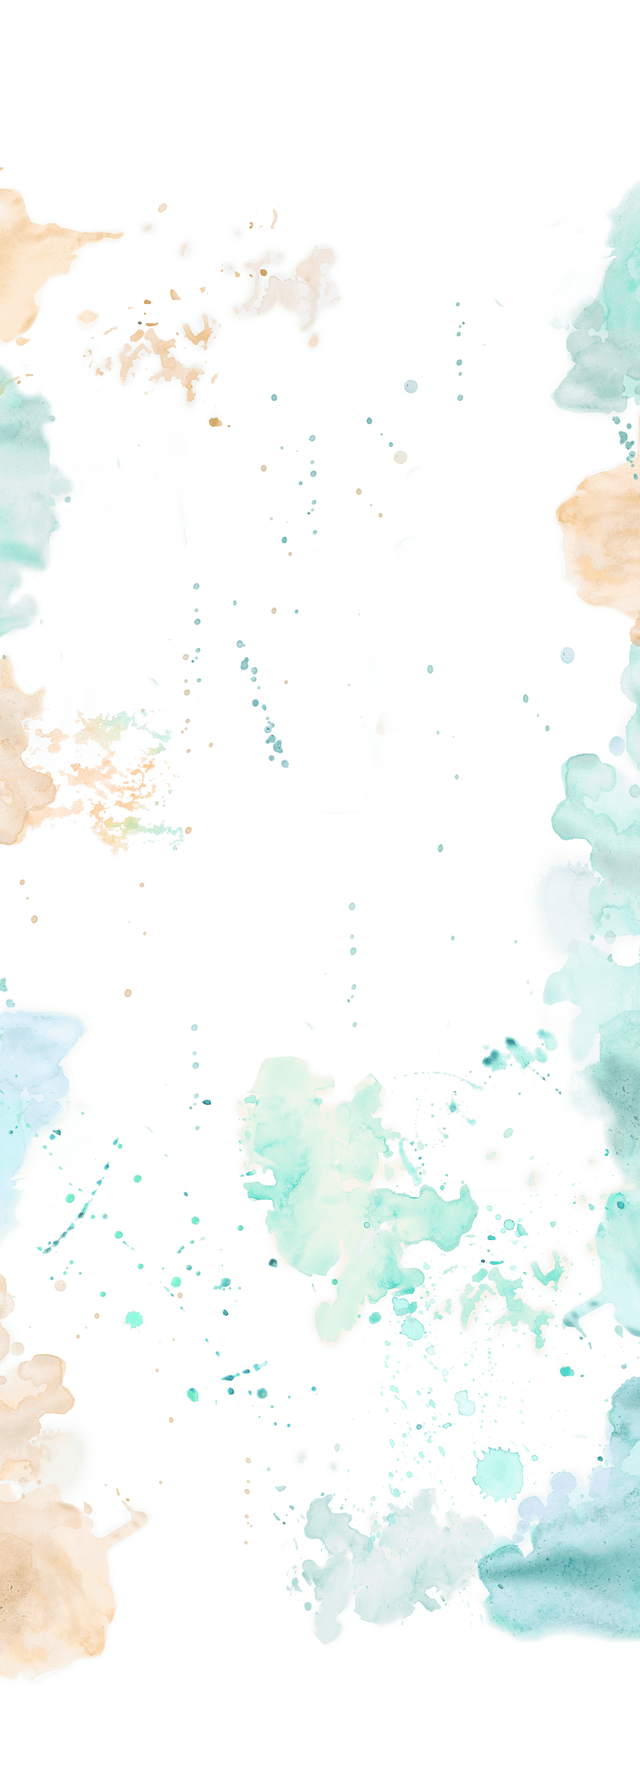
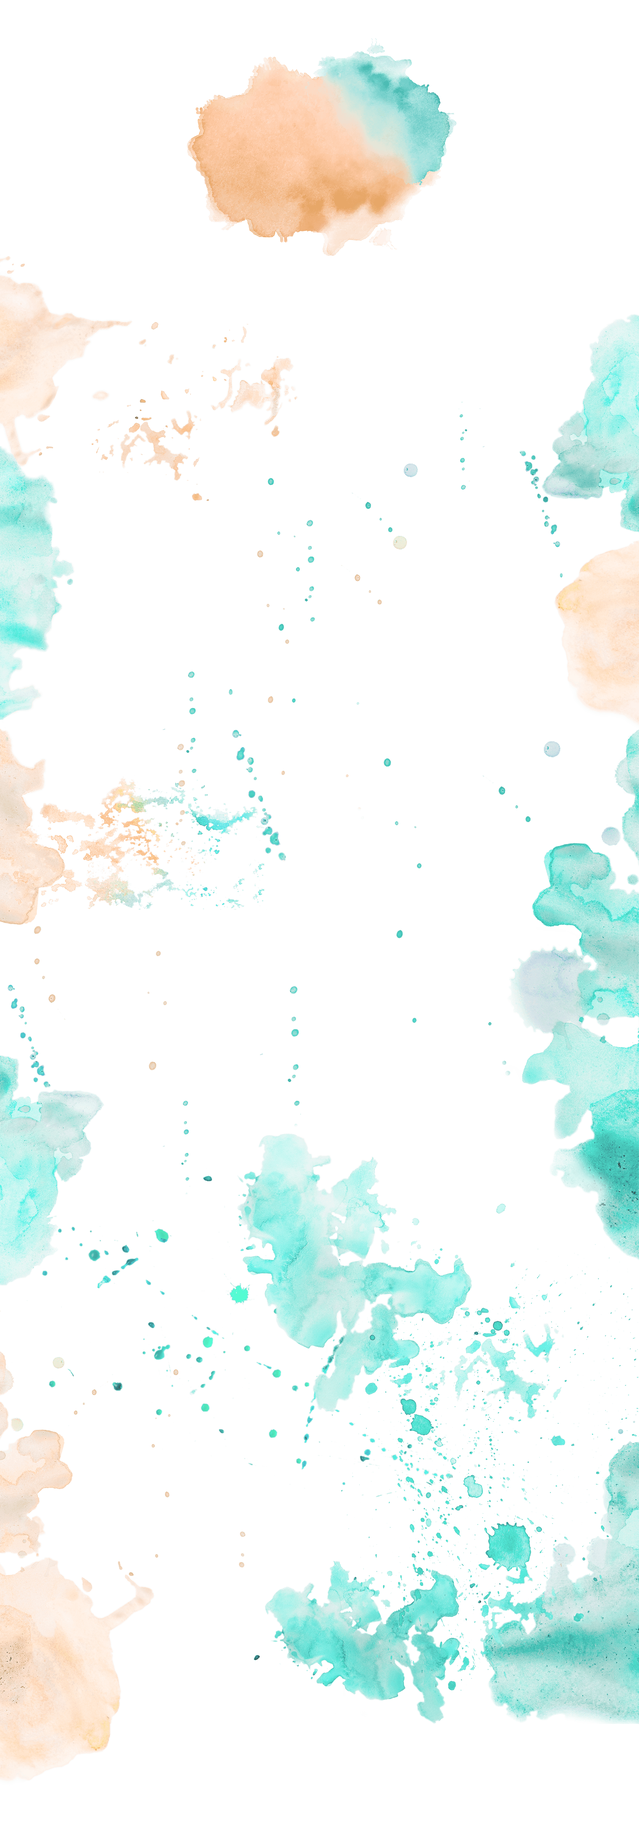
Новый фон на главной

diff --git a/src/css/main.min.css b/src/css/main.min.css
@@ -1,1 +1,1 @@
-@font-face{font-family:Fira Sans;font-style:normal;font-weight:400;src:url(../fonts/fira-sans-v10-latin_cyrillic-regular.eot);src:local("Fira Sans Regular"),local("FiraSans-Regular"),url(../fonts/fira-sans-v10-latin_cyrillic-regular.eot?#iefix) format("embedded-opentype"),url(../fonts/fira-sans-v10-latin_cyrillic-regular.woff2) format("woff2"),url(../fonts/fira-sans-v10-latin_cyrillic-regular.woff) format("woff"),url(../fonts/fira-sans-v10-latin_cyrillic-regular.ttf) format("truetype"),url(../fonts/fira-sans-v10-latin_cyrillic-regular.svg#FiraSans) format("svg")}@font-face{font-family:Rozoviy Chulok;font-style:normal;font-weight:400;src:url(../fonts/rozoviy-chulok-regular.eot);src:local("Rozoviy Chulok Regular"),local("RozoviyChulok-Regular"),url(../fonts/rozoviy-chulok-regular.eot?#iefix) format("embedded-opentype"),url(../fonts/rozoviy-chulok-regular.woff2) format("woff2"),url(../fonts/rozoviy-chulok-regular.woff) format("woff"),url(../fonts/rozoviy-chulok-regular.ttf) format("truetype"),url(../fonts/rozoviy-chulok-regular.svg#FiraSans) format("svg")}#top_menu{position:sticky;z-index:5;top:0;margin:0;padding:0;width:100%}@media screen and (max-width:764px){#top_menu{position:fixed;background:rgba(85,126,131,.75)}#top_menu a{color:#fff}}#top_menu li{text-transform:uppercase;color:#4d5e58;margin:0;position:relative}#top_menu li:before{position:absolute;content:"";height:1px;width:0;background:#65746e;transition:width .3s ease-in-out;left:0;bottom:0}#top_menu li:hover:before{width:calc(100% - 60px);left:30px}.navbar-handle{line-height:40px;width:40px;height:40px;margin:3px;padding:20px 0;position:fixed;z-index:3;display:inline-block;cursor:pointer;right:15px}@media screen and (min-width:764px){.navbar-handle{display:none}}.menu ul{display:none;width:100%}@media screen and (min-width:764px){.menu ul{display:block;overflow:auto;text-align:center;margin:0}}.menu>input[type=checkbox]{display:none}.menu>input[type=checkbox]:checked+ul{display:block;margin:0}.menu li{list-style:none;text-align:center;padding:10px 0}@media screen and (min-width:764px){.menu li{display:inline-block}}.menu a{display:block;text-decoration:none;padding:5px 30px}.fix-menu{background:rgba(85,126,131,.75)}.fix-menu a{color:#fff}@media screen and (max-width:764px){.fix-menu a{color:#4d5e58}}.fix-menu li:hover{background:#557e83}.fix-menu li:hover a{color:#fff}.button_block{text-align:center;margin:120px 0}.button_block button{position:relative;z-index:2;background:#557e83;color:#fff;border:0;box-shadow:none;padding:10px 15px;border-radius:50px;text-transform:uppercase;width:220px;cursor:pointer;transition:.5s}.button_block button:hover{background:#f3c5a3;color:#65746e;transition:.5s}.button_block:before{position:absolute;z-index:0;left:0;content:"";height:1px;width:100%;background-image:linear-gradient(90deg,#557e83,#557e83 50%,transparent 0,transparent);background-size:5px 1px;margin-top:22px}.button_block:after{position:absolute;z-index:0;content:"";display:inline-block;width:180px;height:180px;border-radius:90px;border:1px dashed #557e83;margin-top:-75px;margin-left:-200px;animation:a 24s infinite linear}#events_section{margin:5em 0}#events_section article{margin:7em 0}#events_section article:nth-child(2n){flex-direction:row-reverse;display:flex;flex-wrap:wrap}#events_section article:first-child .events_info{position:relative;text-align:left;padding:1em 2em 1em 6em}@media screen and (max-width:764px){#events_section article:first-child .events_info{padding:0}}#events_section article:first-child .events_info .events_imgs_block{position:absolute;top:0;width:100%}#events_section article:first-child .events_info .events_imgs_block .events_imgs:nth-child(1){position:absolute;right:4em;top:7em}#events_section article:first-child .events_info .events_imgs_block .events_imgs:nth-child(2){position:absolute;right:11em;top:18em}#events_section article:first-child .events_info .events_imgs_block .events_imgs:nth-child(3){position:absolute;right:22em;top:20em}#events_section article:first-child .events_img{padding:1em 6em 1em 2em}#events_section article:first-child .events_img span{margin-left:auto;margin-right:0}@media screen and (max-width:764px){#events_section article:first-child .events_img span{margin-top:-220px;background:#f2eee2}}@media screen and (max-width:764px){#events_section article:first-child .events_img{padding:0}}#events_section article:nth-child(2) .events_info{position:relative;text-align:right;padding:1em 6em 1em 2em}@media screen and (max-width:764px){#events_section article:nth-child(2) .events_info{padding:0}}#events_section article:nth-child(2) .events_info h3{margin-left:auto}#events_section article:nth-child(2) .events_info .events_imgs_block{position:absolute;top:0;width:100%}#events_section article:nth-child(2) .events_info .events_imgs_block .events_imgs:first-child{position:absolute;left:0;top:5em}#events_section article:nth-child(2) .events_info .events_imgs_block .events_imgs:nth-child(2){position:absolute;left:5em;top:17em}#events_section article:nth-child(2) .events_info .events_imgs_block .events_imgs:nth-child(3){position:absolute;left:15em;top:20em}#events_section article:nth-child(2) .events_img{padding:1em 2em 1em 6em}#events_section article:nth-child(2) .events_img span{background:#a1dbd3;color:#557e83;margin-right:auto;margin-left:0}@media screen and (max-width:764px){#events_section article:nth-child(2) .events_img span{margin-top:-220px;background:#f2eee2}}@media screen and (max-width:764px){#events_section article:nth-child(2) .events_img{padding:0}}#events_section article:nth-child(3) .events_info{position:relative;text-align:left;padding:1em 2em 1em 6em}@media screen and (max-width:764px){#events_section article:nth-child(3) .events_info{padding:0}}#events_section article:nth-child(3) .events_info .events_imgs_block{position:absolute;top:0;width:100%}#events_section article:nth-child(3) .events_info .events_imgs_block .events_imgs:first-child{position:absolute;right:4em;top:5em}#events_section article:nth-child(3) .events_info .events_imgs_block .events_imgs:nth-child(2){position:absolute;right:12em;top:20em}#events_section article:nth-child(3) .events_info .events_imgs_block .events_imgs:nth-child(3){position:absolute;right:24em;top:20em}#events_section article:nth-child(3) .events_img{padding:1em 6em 1em 2em}#events_section article:nth-child(3) .events_img span{margin-left:auto;margin-right:0}@media screen and (max-width:764px){#events_section article:nth-child(3) .events_img span{margin-top:-220px;background:#f2eee2}}@media screen and (max-width:764px){#events_section article:nth-child(3) .events_img{padding:0}}#events_section article:nth-child(4) .events_info{position:relative;text-align:right;padding:1em 6em 1em 2em}@media screen and (max-width:764px){#events_section article:nth-child(4) .events_info{padding:0}}#events_section article:nth-child(4) .events_info h3{margin-left:auto}#events_section article:nth-child(4) .events_info .events_imgs_block{position:absolute;top:0;width:100%}#events_section article:nth-child(4) .events_info .events_imgs_block .events_imgs:first-child{position:absolute;left:0;top:5em}#events_section article:nth-child(4) .events_info .events_imgs_block .events_imgs:nth-child(2){position:absolute;left:6em;top:18em}#events_section article:nth-child(4) .events_info .events_imgs_block .events_imgs:nth-child(3){position:absolute;left:18em;top:18em}#events_section article:nth-child(4) .events_img{padding:1em 2em 1em 6em}#events_section article:nth-child(4) .events_img span{background:#a1dbd3;color:#557e83;margin-right:auto;margin-left:0}@media screen and (max-width:764px){#events_section article:nth-child(4) .events_img span{margin-top:-220px;background:#f2eee2}}@media screen and (max-width:764px){#events_section article:nth-child(4) .events_img{padding:0}}#events_section h3{font-family:Rozoviy Chulok;width:240px;color:#95493c;font-size:4em;line-height:1em;font-weight:400;margin-bottom:10px}#events_section .events_info .events_imgs img{border:1px dashed #557e83;border-radius:100%;margin:15px;padding:15px}@media screen and (max-width:1140px){#events_section .events_info .events_imgs{display:none}}#events_section .events_info a{display:block;text-decoration:none;text-transform:uppercase;margin:15px 0;font-size:14px}#events_section .events_info .events_city{display:block;text-transform:uppercase;font-size:2em;margin:10px 0}#events_section .events_info .events_date{font-size:1.4em}#events_section .events_img div{position:relative;width:440px;max-width:100%;height:440px}#events_section .events_img div:after{position:absolute;z-index:0;content:"";display:inline-block;width:100%;height:0;padding-top:100%;border-radius:100%;border:1px dashed #65746e;margin-top:-100%;animation:a 32s infinite linear}@keyframes a{to{transform:rotate(1turn)}}#events_section .events_img div img{position:relative;z-index:1;margin:18px;max-width:calc(100% - 36px);transition:transform .5s}#events_section .events_img div img:hover{transform:scale(1.05)}#events_section .events_img span{position:relative;z-index:3;margin-top:-160px;background:#f3c5a3;color:#65746e;box-shadow:0 5px 18px rgba(0,0,0,.25);width:120px;height:120px;border-radius:120px;display:flex;align-items:center;justify-content:center;text-align:center;padding:20px;line-height:1.2em;font-size:14px;text-transform:uppercase}#video_section{position:relative}#video_section .last_video{position:relative;z-index:1}#video_section .last_video:after{position:absolute;content:"";top:0;left:0;z-index:2;display:block;width:100%;height:100%;background:rgba(71,81,99,.72)}#video_section .video_file{width:100%}#video_section .play_video_button{position:absolute;z-index:3;top:35%;width:90px;max-width:25%;left:calc(50% - 45px);transition:transform .5s;cursor:pointer}#video_section .play_video_button:hover{transform:scale(1.2)}@media screen and (max-width:764px){#video_section .play_video_button{top:25%;width:40px;left:calc(50% - 20px)}}#video_section h3{position:absolute;z-index:3;top:60%;text-align:center;width:100%;color:#fff;text-transform:uppercase;font-size:2.6em}@media screen and (max-width:764px){#video_section h3{font-size:1.2em}}html{background:#f8f3e7;background-image:url(/img/fon0.png);background-size:100%;background-position:0 0}body{font-family:Fira Sans;font-size:16px;background-image:url(/img/line-fon.svg),url(/img/fon1.png);background-size:cover,auto;background-attachment:fixed;overflow-x:hidden}a,body{color:#65746e}blockquote{font-family:Rozoviy Chulok}.top_header{padding-top:15px}#top_block{text-align:center;text-transform:uppercase;color:#4d5e58;background:url(/img/fonbl1.png);background-size:70%;background-repeat:no-repeat;background-position:50%;min-height:600px;padding:1% 2%}@media screen and (max-width:764px){#top_block{background-size:cover;min-height:280px}}.social_top a{display:inline-block;padding:5px}.social_top a svg{width:30px;height:30px}#facebook-dark .vector,#instagram-dark .vector,#vkontakte-dark .vector,#youtube-dark .vector{fill:#fff}#facebook-dark .path,#instagram-dark .path,#vkontakte-dark .path,#youtube-dark .path{fill:#65746e}#facebook-dark .path:hover,#instagram-dark .path:hover,#vkontakte-dark .path:hover,#youtube-dark .path:hover{fill:#f3c5a3}.like_top{text-align:right;padding:5px;text-transform:uppercase}@media screen and (max-width:764px){.like_top{display:none}}.logo_top{width:90%;max-width:420px;display:inline-block}#top_block h3{font-size:20px;font-weight:400;margin:0}#top_block h1{font-size:64px;margin:5px 0}#library_section h3{font-family:Rozoviy Chulok;color:#95493c;font-size:4em;font-weight:400}#library_section p{display:block;max-width:800px}@media screen and (max-width:1140px){#library_section{text-align:center}}#library_section form{text-align:center}#library_section form input{width:50%;min-width:280px;padding:25px 30px;color:#65746e}#library_section form .left_input{border-radius:100px 0 0 100px;border-style:solid;border-color:#ccc;border-width:2px 0 2px 2px}@media screen and (max-width:764px){#library_section form .left_input{border-radius:100px;border-width:2px}}#library_section form .right_input{border-radius:0 100px 100px 0;border-style:solid;border-color:#ccc;border-width:2px 2px 2px 0}@media screen and (max-width:764px){#library_section form .right_input{border-radius:100px;border-width:2px}}#library_section form .politics_input_block{text-align:right;margin:0 auto;padding:0 5px}#library_section form .politics_input_block input[type=checkbox]{width:auto;min-width:auto;margin-right:7px;margin-bottom:3px;vertical-align:middle}#library_section form .politics_input_block span{vertical-align:middle}footer{background:url(/img/footer-fon.png);background-size:cover;background-repeat:no-repeat;background-position:50%;color:#fff;padding:40px 15px 60px}footer .container .column{display:flex;justify-content:space-between;flex-direction:column;min-height:300px}footer .container .column-r{align-items:end}@media screen and (max-width:764px){footer .container .column-r{align-items:center;min-height:auto;margin-top:20px}}@media screen and (max-width:764px){footer{text-align:center}}footer a{display:inline-block;color:#fff;transition:.5s}footer a:hover{color:#f3c5a3;transition:.5s}footer blockquote{font-size:2.6em;line-height:1.2em;margin:0}@media screen and (max-width:1140px){footer blockquote{font-size:32px}}.footer_link a{display:block}.footer_logo{text-align:right}@media screen and (max-width:764px){.footer_logo{text-align:center}}.footer_logo img{margin-left:auto}@media screen and (max-width:764px){.footer_logo img{display:none}}.footer_info{text-align:right}@media screen and (max-width:764px){.footer_info{text-align:center}}.footer_info p{margin:0}.social_footer{margin:20px 0}.social_footer a{display:inline-block;padding:5px;vertical-align:middle}.social_footer a svg{width:30px;height:30px}.social_footer span{display:inline-block;vertical-align:middle;height:30px;padding-right:30px}@media screen and (max-width:1140px){.social_footer span{display:block;padding:0}}#facebook-light .vector,#instagram-light .vector,#vkontakte-light .vector,#youtube-light .vector{fill:#00455d}#facebook-light .path,#instagram-light .path,#vkontakte-light .path,#youtube-light .path{fill:#fff}#facebook-light .path:hover,#instagram-light .path:hover,#vkontakte-light .path:hover,#youtube-light .path:hover{fill:#f3c5a3}#donate{position:fixed;z-index:4;transform:rotate(270deg);right:0;top:30%;margin-right:-80px;font-size:18px;background:#557e83;color:#fff;padding:15px 25px 35px;text-transform:uppercase;text-decoration:none;transition:.5s}#donate:hover{background:#f3c5a3;color:#65746e;margin-right:-70px;transition:.5s}
+@font-face{font-family:Fira Sans;font-style:normal;font-weight:400;src:url(../fonts/fira-sans-v10-latin_cyrillic-regular.eot);src:local("Fira Sans Regular"),local("FiraSans-Regular"),url(../fonts/fira-sans-v10-latin_cyrillic-regular.eot?#iefix) format("embedded-opentype"),url(../fonts/fira-sans-v10-latin_cyrillic-regular.woff2) format("woff2"),url(../fonts/fira-sans-v10-latin_cyrillic-regular.woff) format("woff"),url(../fonts/fira-sans-v10-latin_cyrillic-regular.ttf) format("truetype"),url(../fonts/fira-sans-v10-latin_cyrillic-regular.svg#FiraSans) format("svg")}@font-face{font-family:Rozoviy Chulok;font-style:normal;font-weight:400;src:url(../fonts/rozoviy-chulok-regular.eot);src:local("Rozoviy Chulok Regular"),local("RozoviyChulok-Regular"),url(../fonts/rozoviy-chulok-regular.eot?#iefix) format("embedded-opentype"),url(../fonts/rozoviy-chulok-regular.woff2) format("woff2"),url(../fonts/rozoviy-chulok-regular.woff) format("woff"),url(../fonts/rozoviy-chulok-regular.ttf) format("truetype"),url(../fonts/rozoviy-chulok-regular.svg#FiraSans) format("svg")}#top_menu{position:sticky;z-index:5;top:0;margin:0;padding:0;width:100%}@media screen and (max-width:764px){#top_menu{position:fixed;background:rgba(85,126,131,.75)}#top_menu a{color:#fff}}#top_menu li{text-transform:uppercase;color:#4d5e58;margin:0;position:relative}#top_menu li:before{position:absolute;content:"";height:1px;width:0;background:#65746e;transition:width .3s ease-in-out;left:0;bottom:0}#top_menu li:hover:before{width:calc(100% - 60px);left:30px}.navbar-handle{line-height:40px;width:40px;height:40px;margin:3px;padding:20px 0;position:fixed;z-index:3;display:inline-block;cursor:pointer;right:15px}@media screen and (min-width:764px){.navbar-handle{display:none}}.menu ul{display:none;width:100%}@media screen and (min-width:764px){.menu ul{display:block;overflow:auto;text-align:center;margin:0}}.menu>input[type=checkbox]{display:none}.menu>input[type=checkbox]:checked+ul{display:block;margin:0}.menu li{list-style:none;text-align:center;padding:10px 0}@media screen and (min-width:764px){.menu li{display:inline-block}}.menu a{display:block;text-decoration:none;padding:5px 30px}.fix-menu{background:rgba(85,126,131,.75)}.fix-menu a{color:#fff}@media screen and (max-width:764px){.fix-menu a{color:#4d5e58}}.fix-menu li:hover{background:#557e83}.fix-menu li:hover a{color:#fff}.button_block{text-align:center;margin:120px 0}.button_block button{position:relative;z-index:2;background:#557e83;color:#fff;border:0;box-shadow:none;padding:10px 15px;border-radius:50px;text-transform:uppercase;width:220px;cursor:pointer;transition:.5s}.button_block button:hover{background:#f3c5a3;color:#65746e;transition:.5s}.button_block:before{position:absolute;z-index:0;left:0;content:"";height:1px;width:100%;background-image:linear-gradient(90deg,#557e83,#557e83 50%,transparent 0,transparent);background-size:5px 1px;margin-top:22px}.button_block:after{position:absolute;z-index:0;content:"";display:inline-block;width:180px;height:180px;border-radius:90px;border:1px dashed #557e83;margin-top:-75px;margin-left:-200px;animation:a 24s infinite linear}#events_section{margin:5em 0}#events_section article{margin:7em 0}#events_section article:nth-child(2n){flex-direction:row-reverse;display:flex;flex-wrap:wrap}#events_section article:first-child .events_info{position:relative;text-align:left;padding:1em 2em 1em 6em}@media screen and (max-width:764px){#events_section article:first-child .events_info{padding:0}}#events_section article:first-child .events_info .events_imgs_block{position:absolute;top:0;width:100%}#events_section article:first-child .events_info .events_imgs_block .events_imgs:nth-child(1){position:absolute;right:4em;top:7em}#events_section article:first-child .events_info .events_imgs_block .events_imgs:nth-child(2){position:absolute;right:11em;top:18em}#events_section article:first-child .events_info .events_imgs_block .events_imgs:nth-child(3){position:absolute;right:22em;top:20em}#events_section article:first-child .events_img{padding:1em 6em 1em 2em}#events_section article:first-child .events_img span{margin-left:auto;margin-right:0}@media screen and (max-width:764px){#events_section article:first-child .events_img span{margin-top:-220px;background:#f2eee2}}@media screen and (max-width:764px){#events_section article:first-child .events_img{padding:0}}#events_section article:nth-child(2) .events_info{position:relative;text-align:right;padding:1em 6em 1em 2em}@media screen and (max-width:764px){#events_section article:nth-child(2) .events_info{padding:0}}#events_section article:nth-child(2) .events_info h3{margin-left:auto}#events_section article:nth-child(2) .events_info .events_imgs_block{position:absolute;top:0;width:100%}#events_section article:nth-child(2) .events_info .events_imgs_block .events_imgs:first-child{position:absolute;left:0;top:5em}#events_section article:nth-child(2) .events_info .events_imgs_block .events_imgs:nth-child(2){position:absolute;left:5em;top:17em}#events_section article:nth-child(2) .events_info .events_imgs_block .events_imgs:nth-child(3){position:absolute;left:15em;top:20em}#events_section article:nth-child(2) .events_img{padding:1em 2em 1em 6em}#events_section article:nth-child(2) .events_img span{background:#a1dbd3;color:#557e83;margin-right:auto;margin-left:0}@media screen and (max-width:764px){#events_section article:nth-child(2) .events_img span{margin-top:-220px;background:#f2eee2}}@media screen and (max-width:764px){#events_section article:nth-child(2) .events_img{padding:0}}#events_section article:nth-child(3) .events_info{position:relative;text-align:left;padding:1em 2em 1em 6em}@media screen and (max-width:764px){#events_section article:nth-child(3) .events_info{padding:0}}#events_section article:nth-child(3) .events_info .events_imgs_block{position:absolute;top:0;width:100%}#events_section article:nth-child(3) .events_info .events_imgs_block .events_imgs:first-child{position:absolute;right:4em;top:5em}#events_section article:nth-child(3) .events_info .events_imgs_block .events_imgs:nth-child(2){position:absolute;right:12em;top:20em}#events_section article:nth-child(3) .events_info .events_imgs_block .events_imgs:nth-child(3){position:absolute;right:24em;top:20em}#events_section article:nth-child(3) .events_img{padding:1em 6em 1em 2em}#events_section article:nth-child(3) .events_img span{margin-left:auto;margin-right:0}@media screen and (max-width:764px){#events_section article:nth-child(3) .events_img span{margin-top:-220px;background:#f2eee2}}@media screen and (max-width:764px){#events_section article:nth-child(3) .events_img{padding:0}}#events_section article:nth-child(4) .events_info{position:relative;text-align:right;padding:1em 6em 1em 2em}@media screen and (max-width:764px){#events_section article:nth-child(4) .events_info{padding:0}}#events_section article:nth-child(4) .events_info h3{margin-left:auto}#events_section article:nth-child(4) .events_info .events_imgs_block{position:absolute;top:0;width:100%}#events_section article:nth-child(4) .events_info .events_imgs_block .events_imgs:first-child{position:absolute;left:0;top:5em}#events_section article:nth-child(4) .events_info .events_imgs_block .events_imgs:nth-child(2){position:absolute;left:6em;top:18em}#events_section article:nth-child(4) .events_info .events_imgs_block .events_imgs:nth-child(3){position:absolute;left:18em;top:18em}#events_section article:nth-child(4) .events_img{padding:1em 2em 1em 6em}#events_section article:nth-child(4) .events_img span{background:#a1dbd3;color:#557e83;margin-right:auto;margin-left:0}@media screen and (max-width:764px){#events_section article:nth-child(4) .events_img span{margin-top:-220px;background:#f2eee2}}@media screen and (max-width:764px){#events_section article:nth-child(4) .events_img{padding:0}}#events_section h3{font-family:Rozoviy Chulok;width:240px;color:#95493c;font-size:4em;line-height:1em;font-weight:400;margin-bottom:10px}#events_section .events_info .events_imgs img{border:1px dashed #557e83;border-radius:100%;margin:15px;padding:15px}@media screen and (max-width:1140px){#events_section .events_info .events_imgs{display:none}}#events_section .events_info a{display:block;text-decoration:none;text-transform:uppercase;margin:15px 0;font-size:14px}#events_section .events_info .events_city{display:block;text-transform:uppercase;font-size:2em;margin:10px 0}#events_section .events_info .events_date{font-size:1.4em}#events_section .events_img div{position:relative;width:440px;max-width:100%;height:440px}#events_section .events_img div:after{position:absolute;z-index:0;content:"";display:inline-block;width:100%;height:0;padding-top:100%;border-radius:100%;border:1px dashed #65746e;margin-top:-100%;animation:a 32s infinite linear}@keyframes a{to{transform:rotate(1turn)}}#events_section .events_img div img{position:relative;z-index:1;margin:18px;max-width:calc(100% - 36px);transition:transform .5s}#events_section .events_img div img:hover{transform:scale(1.05)}#events_section .events_img span{position:relative;z-index:3;margin-top:-160px;background:#f3c5a3;color:#65746e;box-shadow:0 5px 18px rgba(0,0,0,.25);width:120px;height:120px;border-radius:120px;display:flex;align-items:center;justify-content:center;text-align:center;padding:20px;line-height:1.2em;font-size:14px;text-transform:uppercase}#video_section{position:relative}#video_section .last_video{position:relative;z-index:1}#video_section .last_video:after{position:absolute;content:"";top:0;left:0;z-index:2;display:block;width:100%;height:100%;background:rgba(71,81,99,.72)}#video_section .video_file{width:100%}#video_section .play_video_button{position:absolute;z-index:3;top:35%;width:90px;max-width:25%;left:calc(50% - 45px);transition:transform .5s;cursor:pointer}#video_section .play_video_button:hover{transform:scale(1.2)}@media screen and (max-width:764px){#video_section .play_video_button{top:25%;width:40px;left:calc(50% - 20px)}}#video_section h3{position:absolute;z-index:3;top:60%;text-align:center;width:100%;color:#fff;text-transform:uppercase;font-size:2.6em}@media screen and (max-width:764px){#video_section h3{font-size:1.2em}}html{background:#f8f3e7;background-image:url(/img/fon0.png);background-size:100%;background-position:0 0}body{font-family:Fira Sans;font-size:16px;background-image:url(/img/line-fon.svg),url(/img/fon1.png);background-size:cover,auto;background-attachment:fixed;overflow-x:hidden}a,body{color:#65746e}blockquote{font-family:Rozoviy Chulok}.top_header{padding-top:15px}#top_block{text-align:center;text-transform:uppercase;color:#4d5e58;background:url(/img/fonbl1.png);background-size:70%;background-repeat:no-repeat;background-position:50%;min-height:600px;padding:1% 2%}@media screen and (max-width:764px){#top_block{background-size:cover;min-height:280px}}.social_top a{display:inline-block;padding:5px}.social_top a svg{width:30px;height:30px}#facebook-dark .vector,#instagram-dark .vector,#vkontakte-dark .vector,#youtube-dark .vector{fill:#fff}#facebook-dark .path,#instagram-dark .path,#vkontakte-dark .path,#youtube-dark .path{fill:#65746e}#facebook-dark .path:hover,#instagram-dark .path:hover,#vkontakte-dark .path:hover,#youtube-dark .path:hover{fill:#f3c5a3}.like_top{text-align:right;padding:5px;text-transform:uppercase}@media screen and (max-width:764px){.like_top{display:none}}.logo_top{width:90%;max-width:420px;display:inline-block}#top_block h3{font-size:20px;font-weight:400;margin:0}#top_block h1{font-size:64px;margin:5px 0}#library_section h3{font-family:Rozoviy Chulok;color:#95493c;font-size:4em;font-weight:400}#library_section p{display:block;max-width:800px}@media screen and (max-width:1140px){#library_section{text-align:center}}#library_section form{text-align:center}#library_section form input{width:50%;min-width:280px;padding:25px 30px;color:#65746e}#library_section form .left_input{border-radius:100px 0 0 100px;border-style:solid;border-color:#ccc;border-width:2px 0 2px 2px}@media screen and (max-width:764px){#library_section form .left_input{border-radius:100px;border-width:2px}}#library_section form .right_input{border-radius:0 100px 100px 0;border-style:solid;border-color:#ccc;border-width:2px 2px 2px 0}@media screen and (max-width:764px){#library_section form .right_input{border-radius:100px;border-width:2px}}#library_section form .politics_input_block{text-align:right;margin:0 auto;padding:0 5px}#library_section form .politics_input_block input[type=checkbox]{width:auto;min-width:auto;margin-right:7px;margin-bottom:3px;vertical-align:middle}#library_section form .politics_input_block span{vertical-align:middle}footer{background:url(/img/footer-fon.png);background-size:cover;background-repeat:no-repeat;background-position:50%;color:#fff;padding:40px 15px 60px}footer .container .column{display:flex;justify-content:space-between;flex-direction:column;min-height:300px}footer .container .column-r{align-items:end}@media screen and (max-width:764px){footer .container .column-r{align-items:center;min-height:auto;margin-top:20px}}@media screen and (max-width:764px){footer{text-align:center}}footer a{display:inline-block;color:#fff;transition:.5s}footer a:hover{color:#f3c5a3;transition:.5s}footer blockquote{font-size:2.6em;line-height:1.2em;margin:0}@media screen and (max-width:1140px){footer blockquote{font-size:32px}}.footer_link a{display:block}.footer_logo{text-align:right}@media screen and (max-width:764px){.footer_logo{text-align:center}}.footer_logo img{margin-left:auto}@media screen and (max-width:764px){.footer_logo img{display:none}}.footer_info{text-align:right}@media screen and (max-width:764px){.footer_info{text-align:center}}.footer_info p{margin:0}.social_footer{margin:20px 0}.social_footer a{display:inline-block;padding:5px;vertical-align:middle}.social_footer a svg{width:30px;height:30px}.social_footer span{display:inline-block;vertical-align:middle;height:30px;padding-right:30px}@media screen and (max-width:1140px){.social_footer span{display:block;padding:0}}#facebook-light .vector,#instagram-light .vector,#vkontakte-light .vector,#youtube-light .vector{fill:#00455d}#facebook-light .path,#instagram-light .path,#vkontakte-light .path,#youtube-light .path{fill:#fff}#facebook-light .path:hover,#instagram-light .path:hover,#vkontakte-light .path:hover,#youtube-light .path:hover{fill:#f3c5a3}#donate{position:fixed;z-index:4;right:0;top:30%;margin-right:-160px;font-size:18px;background:#557e83;color:#fff;padding:10px 15px;text-transform:uppercase;text-decoration:none;transition:.5s}#donate svg{width:45px;height:45px;margin-right:5px;fill:#fff;transition:.5s}#donate span,#donate svg{display:inline-block;vertical-align:middle}#donate span{width:150px;text-align:center}#donate:hover{background:#f3c5a3;color:#65746e;margin-right:0;transition:.5s}#donate:hover svg{fill:#65746e;transition:.5s}

diff --git a/src/css/main.css b/src/css/main.css
@@ -510,10 +510,6 @@ blockquote {
   text-align: center;
   text-transform: uppercase;
   color: #4D5E58;
-  background: url("/img/fonbl1.png");
-  background-size: 70%;
-  background-repeat: no-repeat;
-  background-position: center center;
   min-height: 600px;
   padding: 1% 2%; }
   @media screen and (max-width: 764px) {

diff --git a/src/sass/main.sass b/src/sass/main.sass
@@ -36,10 +36,6 @@ blockquote
 	text-align: center
 	text-transform: uppercase
 	color: #4D5E58
-	background: url('/img/fonbl1.png')
-	background-size: 70%
-	background-repeat: no-repeat
-	background-position: center center
 	min-height: 600px
 	padding: 1% 2%
 
